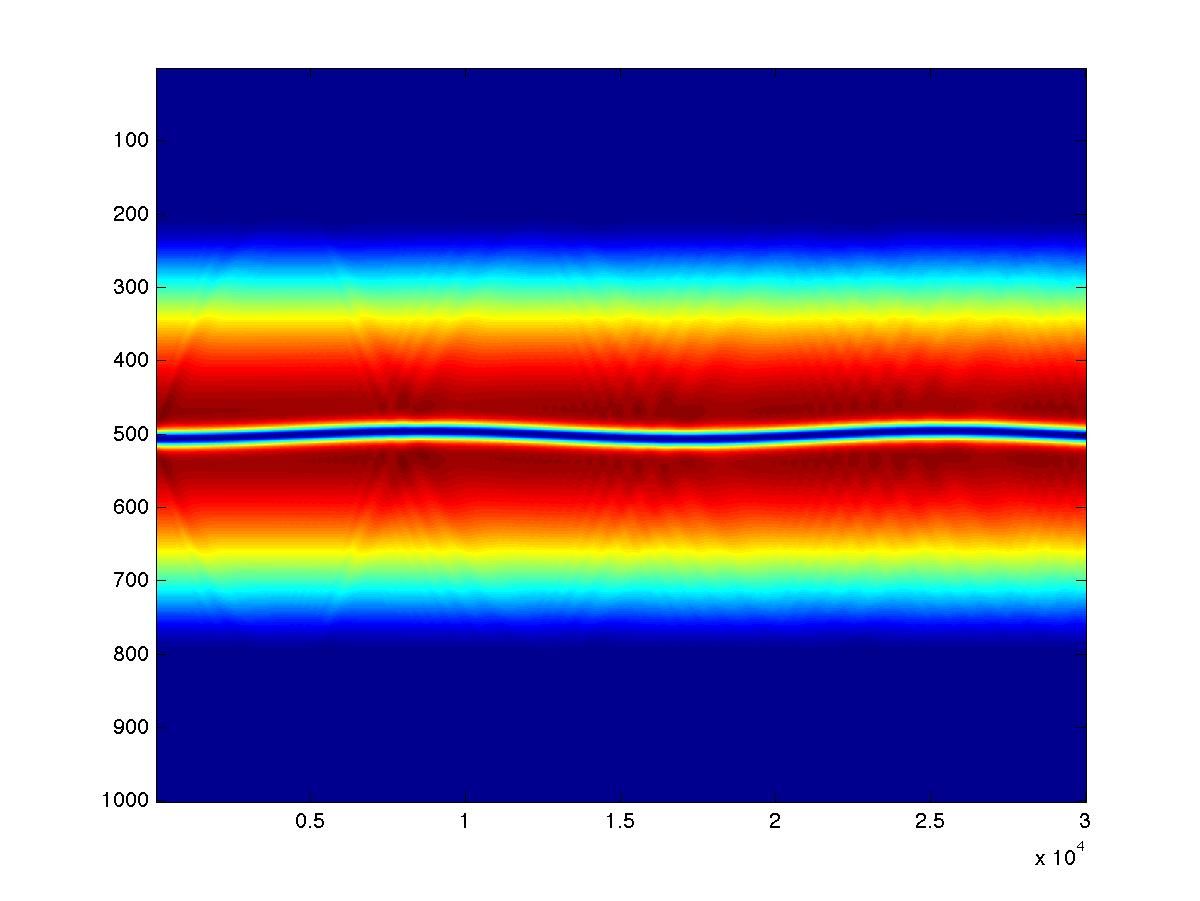
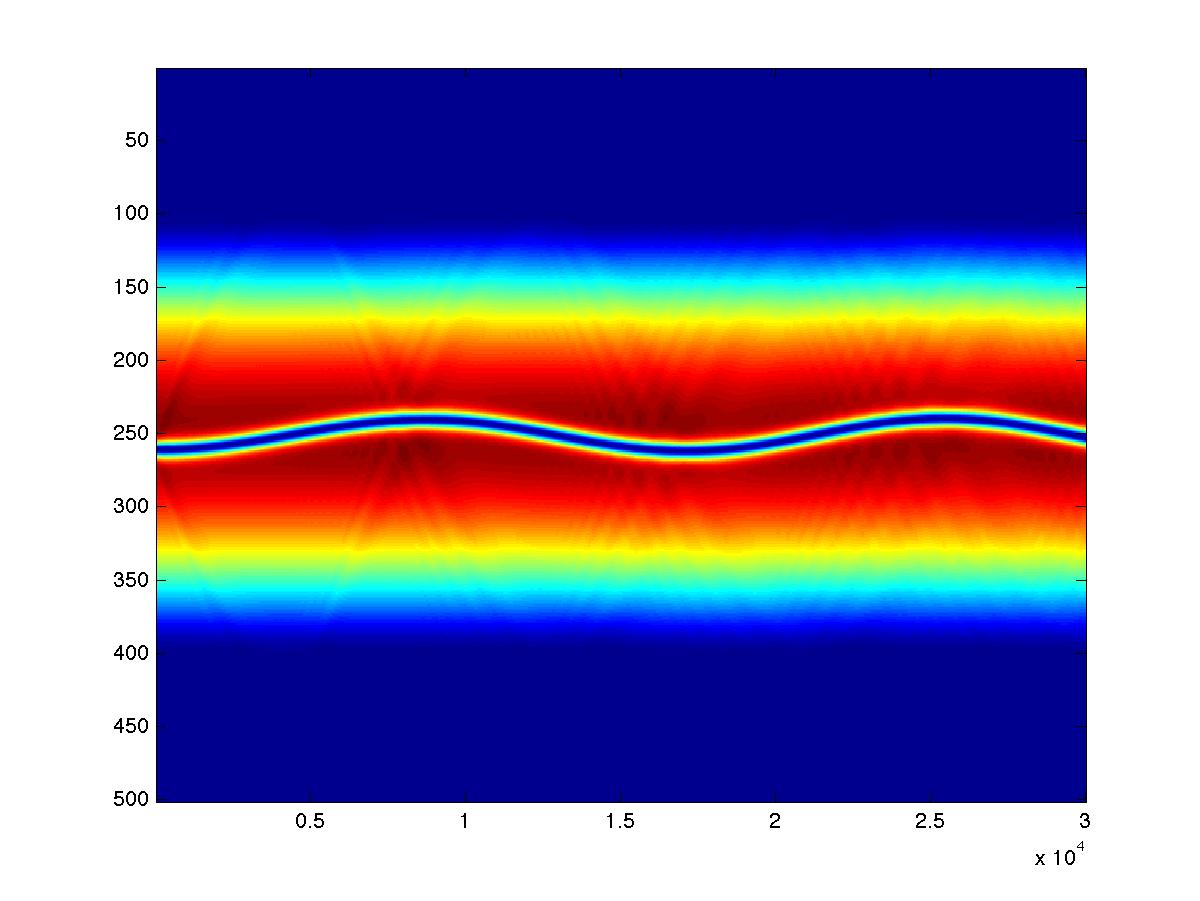
fixed estimated finish bug

diff --git a/driver.m b/driver.m
@@ -7,7 +7,7 @@ maxtime = 300;       %maxTime
 delta_x = 0.2;       %change in x.  'h'.
 x_length = 100;        %total length across xgrid
 x_center = 0;          
-omega = .05;       %potential trap constant
+omega = .03;       %potential trap constant
 mu = 2;
 x_start = [2.0];
 numSolitons = length(x_start);
@@ -16,7 +16,7 @@ if(mu < omega/2)
 end
 
 
-plotlive = 1;
+plotlive = 0;
 saveplot = 1;
 numSteps = maxtime/delta_t;     %number of steps forward in RK4
 trackProgress = 1;
@@ -51,7 +51,7 @@ while index < numSteps
         disp(['Start time:  ' datestr(starttime,'mm/dd HH:MM PM')]);
         disp(['Elapsed time:  ' datestr(now - starttime,'HH:MM:SS')]);
         disp(['Estimated time left:  ' datestr((numSteps -  index)*averageTimePerIteration,'HH:MM:SS')]);
-        disp(['Estimated end time: ' datestr((numSteps -  index)*averageTimePerIteration+starttime,'mm/dd HH:MM PM')]);
+        disp(['Estimated end time: ' datestr((numSteps -  index)*averageTimePerIteration+now,'mm/dd HH:MM PM')]);
     end
 
 
@@ -79,14 +79,14 @@ if(saveplot == 1)
        print( '-djpeg', ['crazyplots/','mu=',num2str(mu),',','omega=',num2str(omega),'.jpg']);
 end
 
-%guessWavelength = floor((1/((.21)*(1/sqrt(2))*(omega)))/delta_t);
-%[S, F, T, P] = spectrogram(x_t(1:index),guessWavelength, floor(guessWavelength/2), length(x_t(1:index)), 1/delta_t);
-%surf(T,F,P,'edgecolor','none');
-%axis tight;
-%view(0,90);
-%xlabel('Time (Seconds)'); ylabel('Hz');
-%[maxP, indexMaxP] = max(P);
-%plot(x_t(1:floor((1/F(indexMaxP))/delta_t)));
+guessWavelength = floor((1/((.21)*(1/sqrt(2))*(omega)))/delta_t);
+[S, F, T, P] = spectrogram(x_t(1:index),guessWavelength, floor(guessWavelength/2), length(x_t(1:index)), 1/delta_t);
+surf(T,F,P,'edgecolor','none');
+axis tight;
+view(0,90);
+xlabel('Time (Seconds)'); ylabel('Hz');
+[maxP, indexMaxP] = max(P);
+plot(x_t(1:floor((1/F(indexMaxP))/delta_t)));
 
 
 
